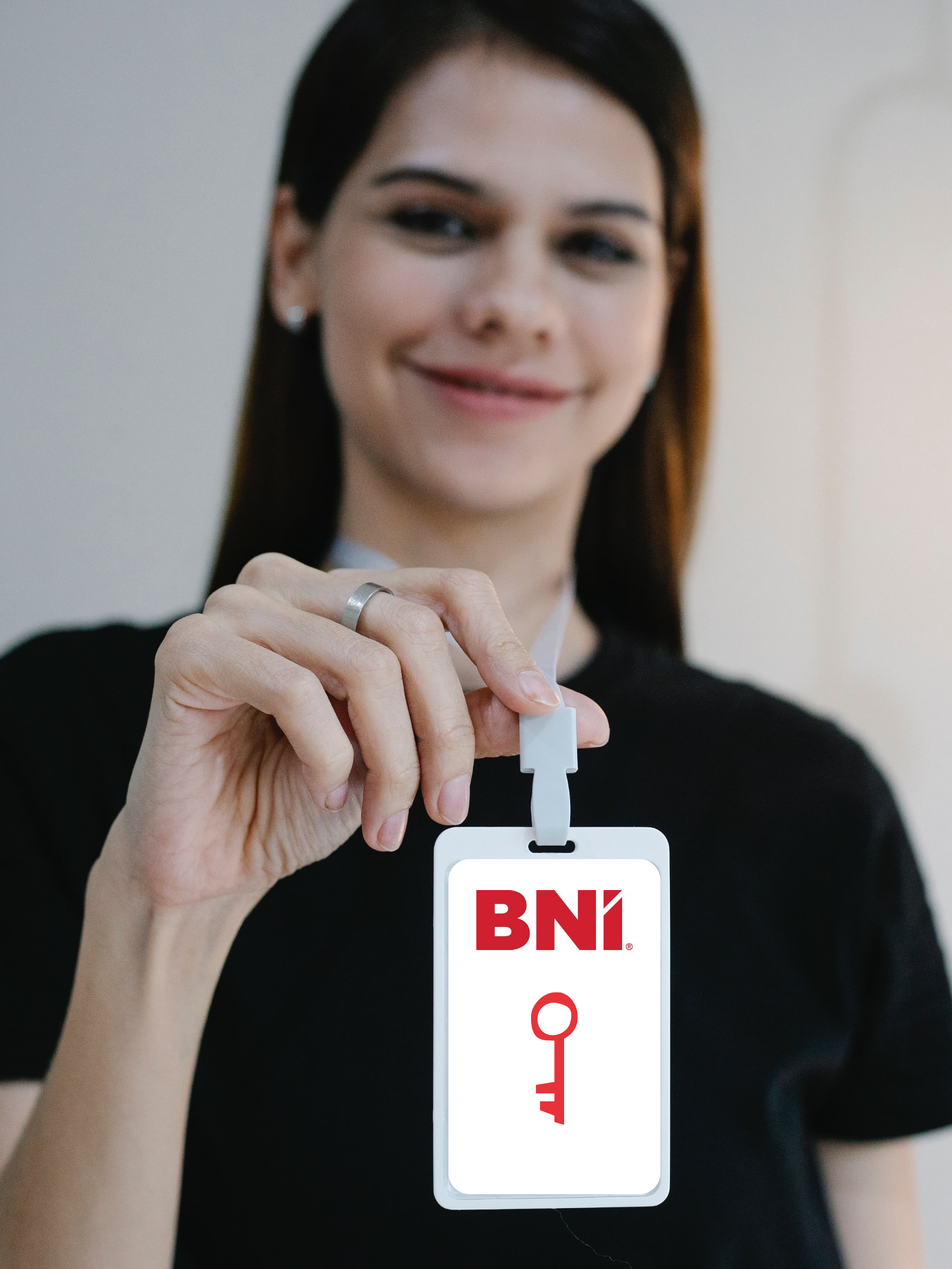
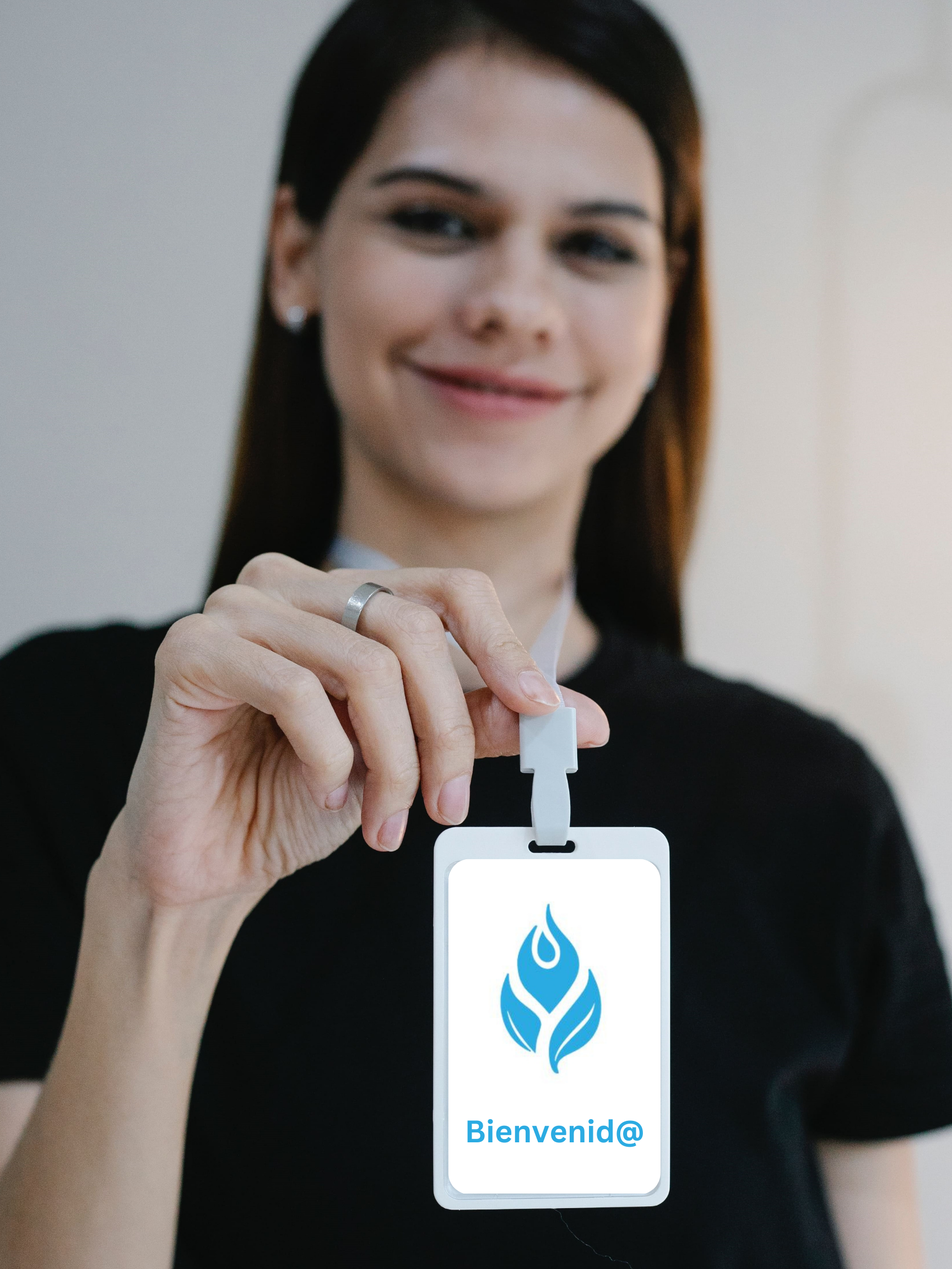
cambios de css

Changed region(s): [[0.4688, 0.6875, 0.6875, 0.9062]]

diff --git a/home.html b/home.html
@@ -99,13 +99,13 @@
 					<h2>Acceso</h2>
 				</header>
 				<div class="contenedor" id="figuras" style="text-align: center; background-color: white;">
-					<h4><span id="nombre2"></span> bienvenid@ a <span style="color: #cf2030;" >BNI Cuicuilco</span></h4>
+					<h4><span id="nombre2"></span> bienvenid@ a <span style="color: #228a6f;" >Yor Health 2023</span></h4>
 
 
 					<div id="contenedorQR" class="contenedorQR"></div>
 				</div>
 				<br>
-				<input style="background-color: #cf2030; color: white;" type="button" class="btn tw" id="btnSave2" value="Descargar Acceso">
+				<input style="background-color: #228a6f; color: white;" type="button" class="btn tw" id="btnSave2" value="Descargar Acceso">
 
 
 			</article>

diff --git a/reporte.html b/reporte.html
@@ -3,7 +3,7 @@
   <head>
     <meta charset="UTF-8" />
     <meta name="viewport" content="width=device-width, initial-scale=1.0" />
-    <title>BNI Events</title>
+    <title>Yor Health</title>
 
     <!-- BOOTSWATCH -->
   
@@ -25,7 +25,7 @@
   <!--#f1602e -->
 <nav class="navbar navbar-expand-lg navbar-dark bg-primary">
   <div class="container-fluid">
-    <a class="navbar-brand" >BNI Events</a>
+    <a class="navbar-brand" >Yor Health</a>
     <button class="navbar-toggler" type="button" data-bs-toggle="collapse" data-bs-target="#navbarColor02" aria-controls="navbarColor02" aria-expanded="false" aria-label="Toggle navigation">
       <span class="navbar-toggler-icon"></span>
     </button>

diff --git a/index.html b/index.html
@@ -6,7 +6,7 @@
 -->
 <html>
 	<head>
-		<title>Xamapp</title>
+		<title>Yor Health</title>
 		<meta charset="utf-8" />
 		<meta name="viewport" content="width=device-width, initial-scale=1, user-scalable=no" />
 		<link rel="stylesheet" href="assets/css/main.css" />
@@ -15,8 +15,8 @@
 
 		<!-- Header -->
 			<header id="header">
-				<h1>Xamapp</h1>
-				<p>Una manera simple de hacer eficiente tu evento.</p>
+				<h1>Yor Health</h1>
+				<p>Bienvenido al evento 2023.</p>
 			</header>
 
 		<!-- Signup Form -->

diff --git a/registro.html b/registro.html
@@ -6,7 +6,7 @@
 -->
 <html>
 	<head>
-		<title>Xamapp</title>
+		<title>Yor Health</title>
 		<meta charset="utf-8" />
 		<meta name="viewport" content="width=device-width, initial-scale=1, user-scalable=no" />
 		<link rel="stylesheet" href="assets/css/main.css" />
@@ -15,8 +15,8 @@
 
 		<!-- Header -->
 			<header id="header">
-				<h1>Xamapp</h1>
-				<p>Una manera simple de hacer eficiente tu evento.</p>
+				<h1>Yor Health</h1>
+				<p>Bienvenido al evento 2023.</p>
 			</header>
 
 		
